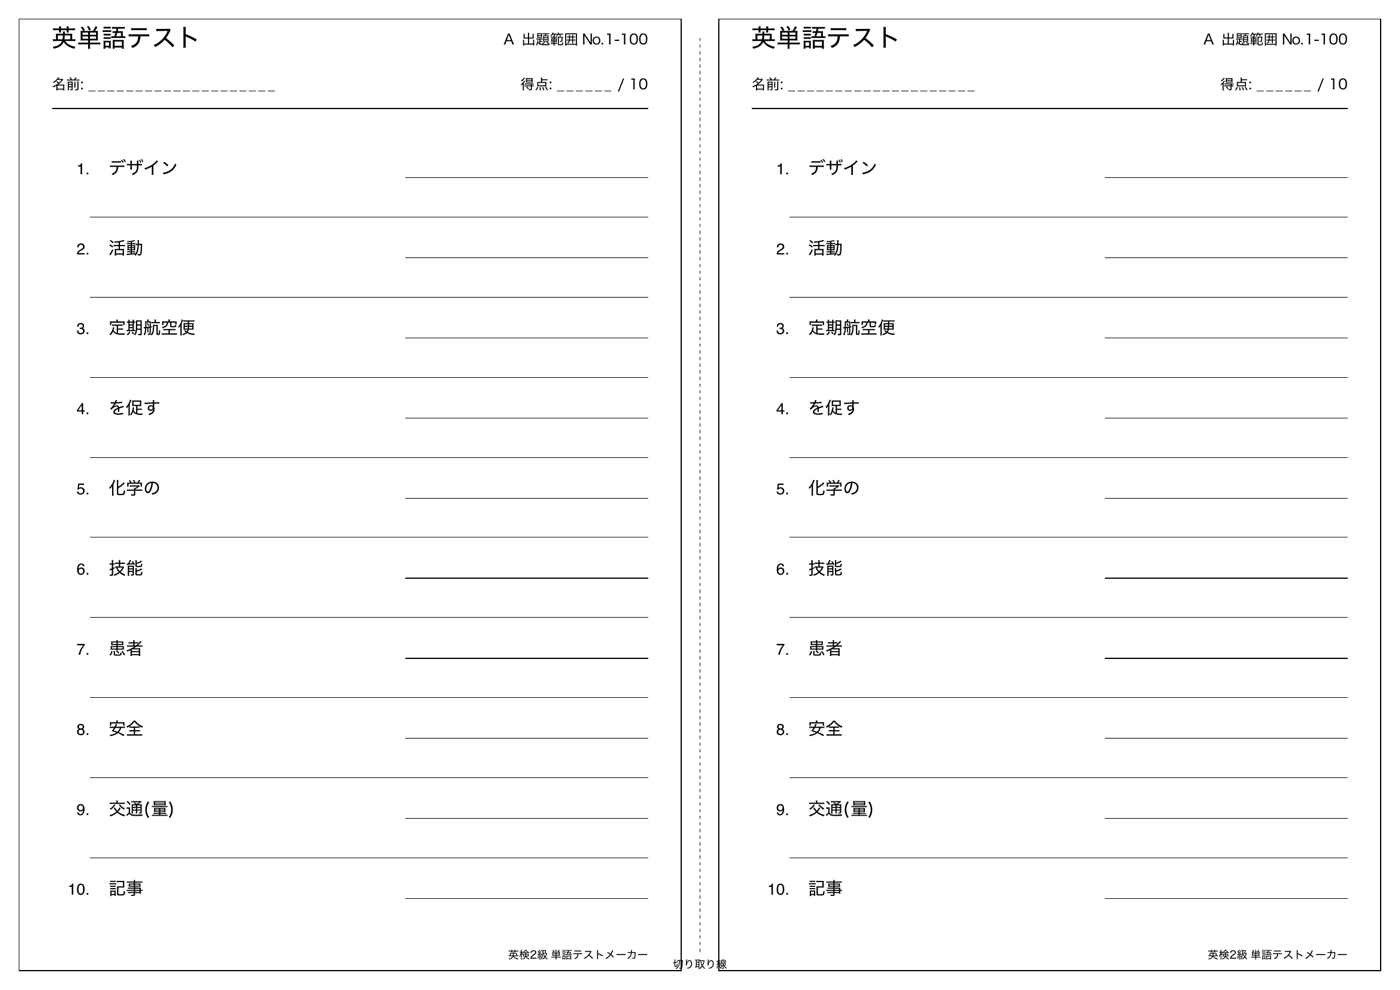
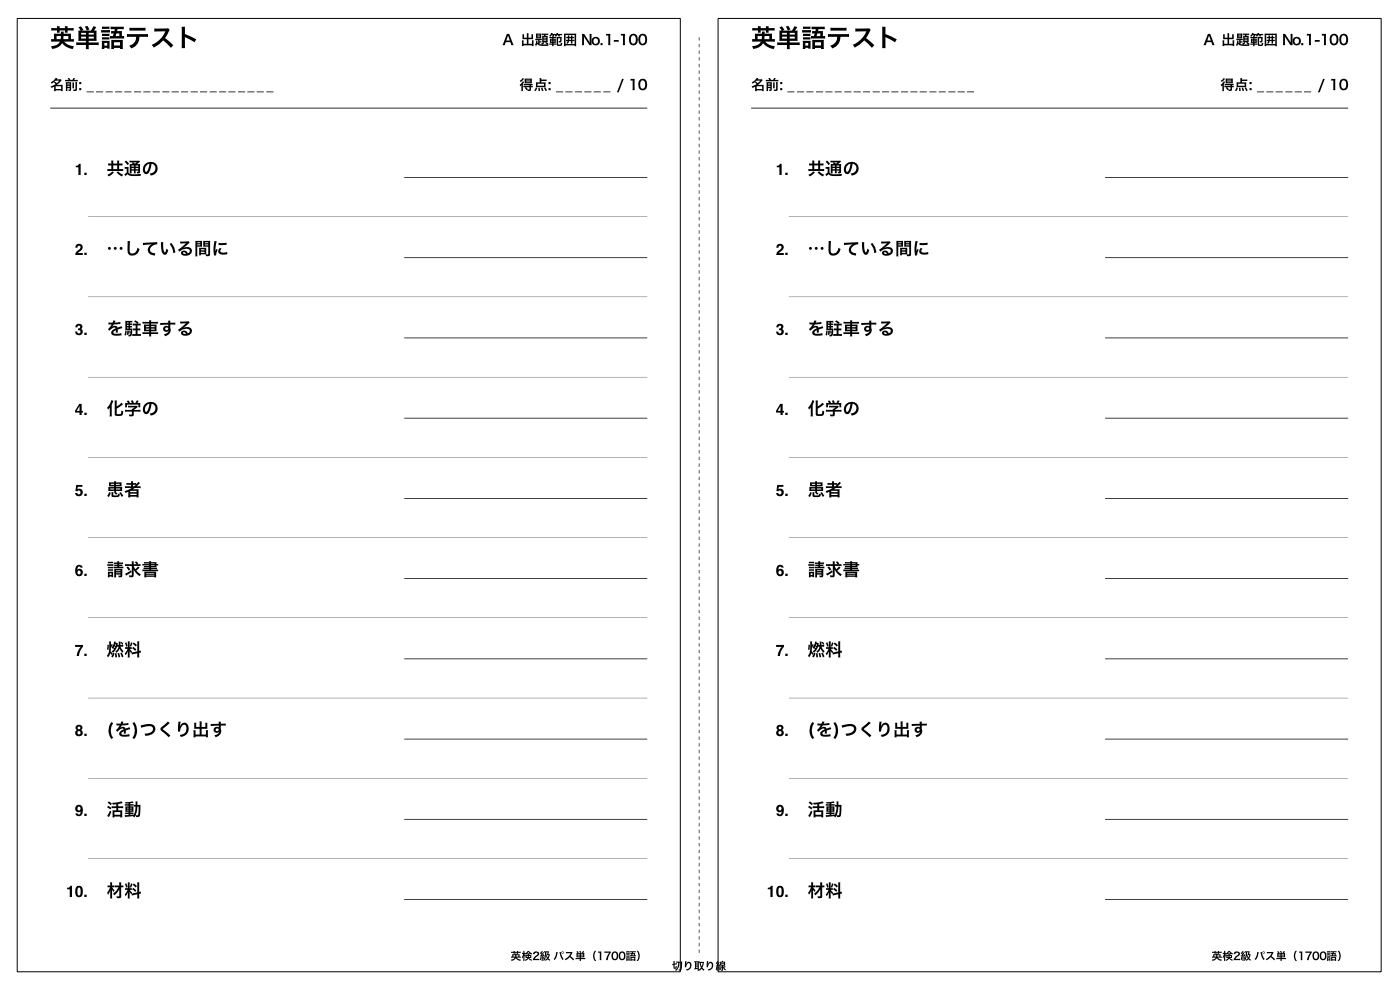
feat: PDF右下の表記を選択した単語帳名にする
これまでPDF右下には常にアプリ名「英検2級 単語テストメーカー」を
印字していたが、選んだ単語帳（同梱ならその表示名、自前CSVなら
ファイル名）を印字するようにした。PDFのSubjectメタデータにも同じ値を設定。

- source_display_name(): CSVソース(URL/パス) → 表示名を決定
- サンプルPDF・スクリーンショットを新しい表記で作り直し
- APP_VERSION=1.2.1

diff --git a/vocab_test_maker.py b/vocab_test_maker.py
@@ -35,6 +35,7 @@ import ssl
 import sys
 import threading
 import urllib.error
+import urllib.parse
 import urllib.request
 import webbrowser
 from dataclasses import dataclass, field
@@ -52,7 +53,7 @@ import self_update
 from self_update import Asset
 
 APP_NAME = "英検2級 単語テストメーカー"
-APP_VERSION = "1.2.0"  # リリース時は git タグ vX.Y.Z と揃える
+APP_VERSION = "1.2.1"  # リリース時は git タグ vX.Y.Z と揃える
 GITHUB_REPO = "ddd3h/eiken-vocab-test-maker"
 DATA_BASE_URL = f"https://raw.githubusercontent.com/{GITHUB_REPO}/main/data/"
 RELEASES_PAGE_URL = f"https://github.com/{GITHUB_REPO}/releases/latest"
@@ -122,6 +123,20 @@ def find_dataset(source: str) -> Dataset | None:
         return next((ds for ds in DATASETS if ds.url == text), None)
     name = Path(text).name
     return next((ds for ds in DATASETS if ds.filename == name), None)
+
+
+def source_display_name(source: str | Path) -> str:
+    """PDFに載せる単語帳名。同梱の単語帳ならその表示名、自前のCSVならファイル名（拡張子なし）。"""
+    text = str(source).strip()
+    ds = find_dataset(text)
+    if ds:
+        return ds.label
+    if is_url(text):
+        stem = Path(urllib.parse.urlsplit(normalize_csv_url(text)).path).stem
+        stem = urllib.parse.unquote(stem)
+    else:
+        stem = Path(text).stem
+    return stem or APP_NAME
 
 
 def range_presets(total: int, step: int = RANGE_STEP) -> List[str]:
@@ -449,6 +464,7 @@ def draw_test_panel(
     direction: str,
     label: str,
     answers: bool = False,
+    footer: str = APP_NAME,
 ) -> None:
     margin_x = 11 * mm
     top = h - 10 * mm
@@ -540,7 +556,7 @@ def draw_test_panel(
             c.line(left + 8 * mm, sep_y, right, sep_y)
 
     c.setFont(JP_FONT, 6.5)
-    c.drawRightString(right, y0 + 6.5 * mm, f"{APP_NAME}")
+    c.drawRightString(right, y0 + 6.5 * mm, footer)
     c.restoreState()
 
 
@@ -553,6 +569,7 @@ def generate_pdf(
     direction: str,
     answers: bool = False,
     labels: Tuple[str, str] = ("A", "B"),
+    source_name: str = APP_NAME,
 ) -> None:
     page_size = landscape(A4)
     page_w, page_h = page_size
@@ -562,9 +579,10 @@ def generate_pdf(
     c = canvas.Canvas(str(output_path), pagesize=page_size)
     c.setTitle("英単語テスト" if not answers else "英単語テスト 解答")
     c.setAuthor(APP_NAME)
+    c.setSubject(source_name)
 
-    draw_test_panel(c, 0, 0, panel_w, page_h, left_items, start, end, direction, labels[0], answers)
-    draw_test_panel(c, panel_w, 0, panel_w, page_h, right_items, start, end, direction, labels[1], answers)
+    draw_test_panel(c, 0, 0, panel_w, page_h, left_items, start, end, direction, labels[0], answers, footer=source_name)
+    draw_test_panel(c, panel_w, 0, panel_w, page_h, right_items, start, end, direction, labels[1], answers, footer=source_name)
     draw_cut_mark(c, page_w, page_h)
     c.showPage()
     c.save()
@@ -578,22 +596,25 @@ def make_test(
     two_sets: str = "same",
     make_answers: bool = True,
     seed: int | None = None,
+    source_name: str | None = None,
 ) -> Tuple[Path, Path | None]:
     items = load_vocab(csv_source)
     start, end = parse_range(range_text)
     pool = filter_range(items, start, end)
+    if source_name is None:
+        source_name = source_display_name(csv_source)  # PDF右下に載せる単語帳名
 
     rng = random.Random(seed)
     left, right = choose_tests(pool, two_sets, rng)
     labels = ("A", "A") if two_sets == "same" else ("A", "B")
 
     output_path = output_path.with_suffix(".pdf")
-    generate_pdf(output_path, left, right, start, end, direction, answers=False, labels=labels)
+    generate_pdf(output_path, left, right, start, end, direction, answers=False, labels=labels, source_name=source_name)
 
     answer_path: Path | None = None
     if make_answers:
         answer_path = output_path.with_name(output_path.stem + "_answers.pdf")
-        generate_pdf(answer_path, left, right, start, end, direction, answers=True, labels=labels)
+        generate_pdf(answer_path, left, right, start, end, direction, answers=True, labels=labels, source_name=source_name)
 
     return output_path, answer_path
 

diff --git a/README.md b/README.md
@@ -135,6 +135,7 @@ python3 vocab_test_maker.py --range 1-100 --seed 12345 --output test.pdf
 - A4横1ページにA5縦を左右2枚
 - 「同じ10問を2枚」または「A/B別々の10問」
 - 解答PDFも同時生成可能
+- PDFの右下に単語帳名（自前CSVならファイル名）を印字
 - 自前のCSVはファイル選択またはURL指定
 - 新しいバージョンがあれば画面下にお知らせ。「今すぐ更新」でその場で入れ替え（ビルド済みアプリ）
 
